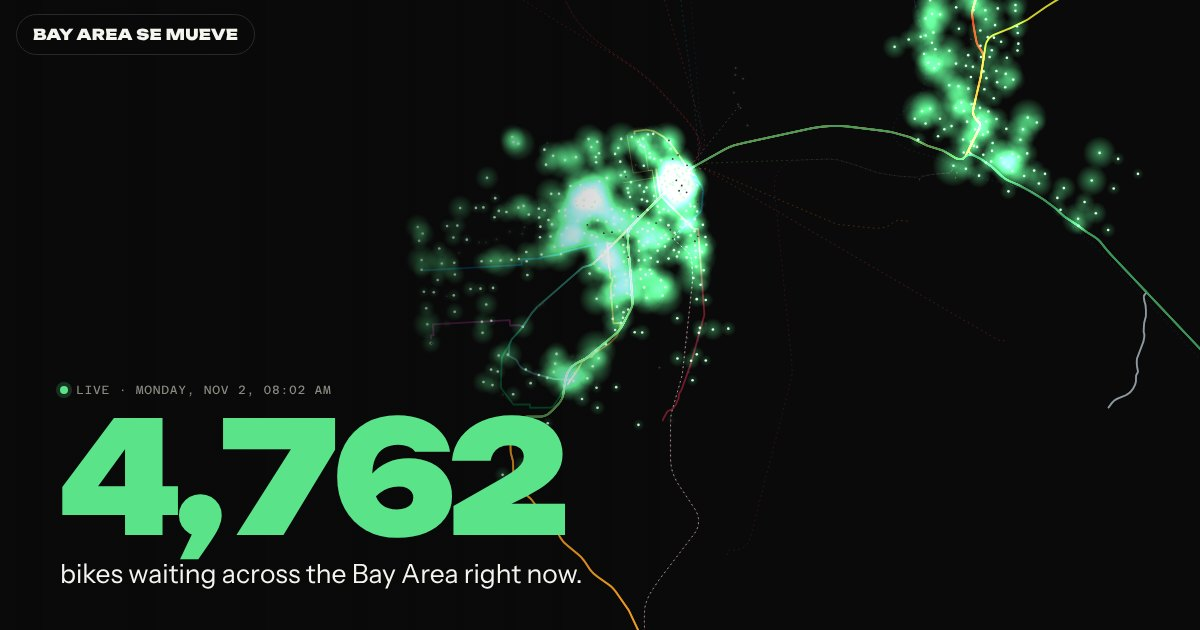
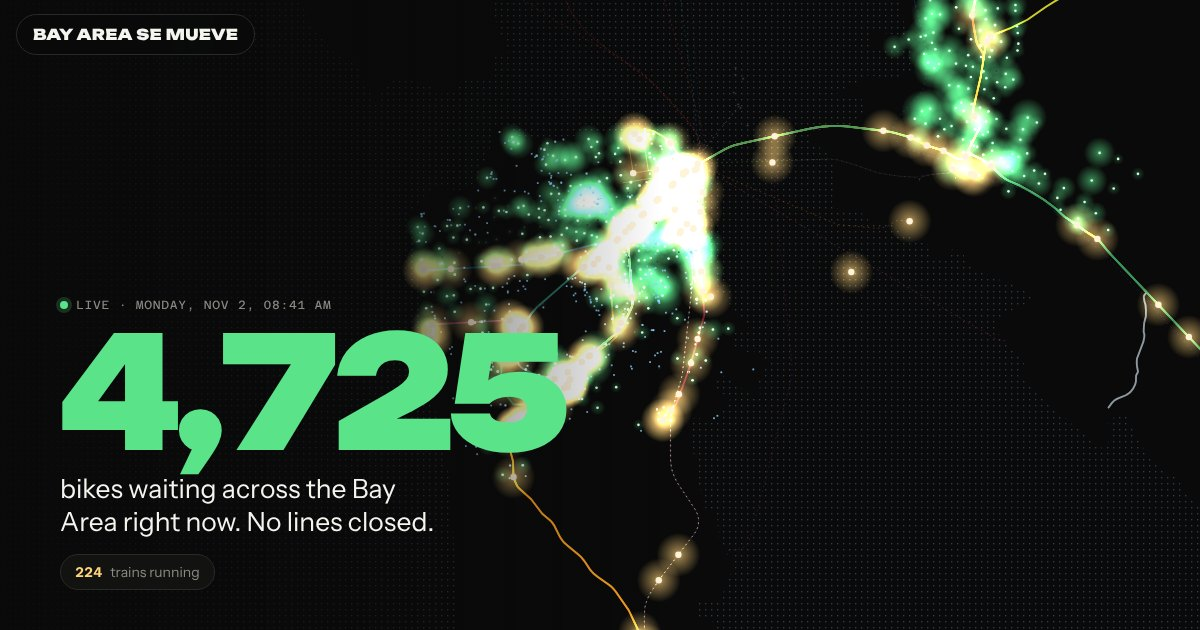
Fresh Bay sharing image; notes on Bay data
Claude-Session: https://claude.ai/code/session_01462MbRPFKPejtS3j3NiCt3

diff --git a/CLAUDE.md b/CLAUDE.md
@@ -22,7 +22,7 @@ remembered, else the browser's). Every user-facing string is written as `L('es',
 `data-es` / `data-en` (with `{city}`, `{bike}`, `{title}` tokens) in `index.html`. The Bay edition lives at
 bayarea.lessane.es: repo lessane-land/bay-area-se-mueve holds only the page that `scripts/bay_index.py` writes, and loads every
 script, style and font from madrid.lessane.es. Bay data: `graph-bay.json` (estado-madrid, monthly from 511),
-Edge Function `vivo?city=bay&what=vehicles|alerts` (511, every 90 s and 5 min), Bay Wheels GBFS from the browser.
+Edge Function `vivo?city=bay&what=vehicles|alerts|roads` (511: vehicles and BART trip updates every 3 min, alerts 10 min, roads and tolls 30 min; BART placed in `data.js` from its arrival times), Bay Wheels GBFS (stations, free e-bikes, alerts) from the browser, coast from `data/coast-bay.json` (US Census shoreline).
 No Historia and no 30-day episodes for the Bay.
 
 `js/data.js` owns every fetch and poll (trains 15 s, bikes 30 s, status 2 min, episodes 10 min, paused while the tab is hidden);

diff --git a/README.md b/README.md
@@ -22,7 +22,7 @@ remembered, else the browser's). Every user-facing string is written as `L('es',
 `data-es` / `data-en` (with `{city}`, `{bike}`, `{title}` tokens) in `index.html`. The Bay edition lives at
 bayarea.lessane.es: repo lessane-land/bay-area-se-mueve holds only the page that `scripts/bay_index.py` writes, and loads every
 script, style and font from madrid.lessane.es. Bay data: `graph-bay.json` (estado-madrid, monthly from 511),
-Edge Function `vivo?city=bay&what=vehicles|alerts` (511, every 90 s and 5 min), Bay Wheels GBFS from the browser.
+Edge Function `vivo?city=bay&what=vehicles|alerts|roads` (511: vehicles and BART trip updates every 3 min, alerts 10 min, roads and tolls 30 min; BART placed in `data.js` from its arrival times), Bay Wheels GBFS (stations, free e-bikes, alerts) from the browser, coast from `data/coast-bay.json` (US Census shoreline).
 No Historia and no 30-day episodes for the Bay.
 
 `js/data.js` owns every fetch and poll (trains 15 s, bikes 30 s, status 2 min, episodes 10 min, paused while the tab is hidden);
